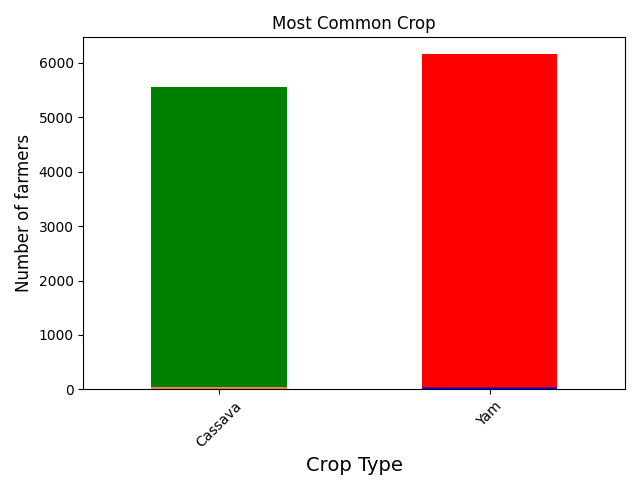
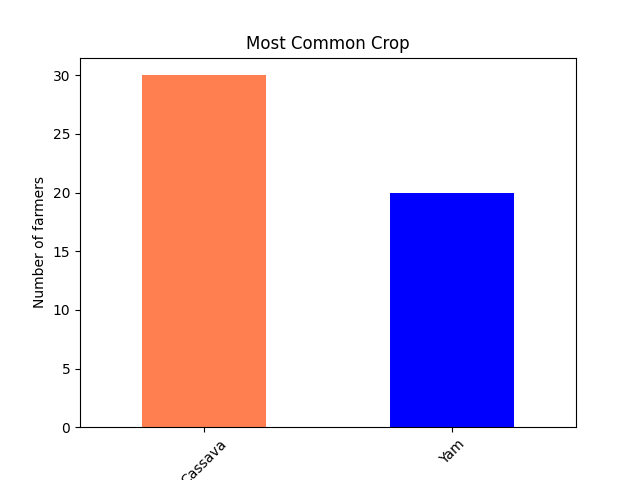
i have added more and made some corrections

diff --git a/jpil_farmers_analysis.py b/jpil_farmers_analysis.py
@@ -8,48 +8,48 @@ df= pd.read_excel("farmers_analysis.xlsx", header=1)
 print(df.columns)
 
 #which village had the highest average crop yield after training?
-avg_crop_yield=df.groupby("Village")["Yield After kg per hec"].mean()
-print(avg_crop_yield)
+#avg_crop_yield=df.groupby("Village")["Yield After kg per hec"].mean()
+#print(avg_crop_yield)
 
 #i will be drawing my average crop yield using bar chart
-avg_crop_yield.plot(kind="bar", color=["green", "red", "blue"])
+#avg_crop_yield.plot(kind="bar", color=["green", "red", "blue"])
 
-plt.title("Average yield after training")
-plt.xlabel("Village", fontsize=12)
-plt.ylabel("Average yield after training", fontsize=12)
-plt.xticks(rotation=45)
-plt.tight_layout()
-plt.savefig("Average_Crop_Yield_After_Training.png")
+#plt.title("Average yield after training")
+#plt.xlabel("Village", fontsize=12)
+#plt.ylabel("Average yield after training", fontsize=12)
+#plt.xticks(rotation=45)
+#plt.tight_layout()
+#plt.savefig("Average_Crop_Yield_After_Training.png")
 #plt.show()
 
 
 
 #which village used most fertilizers on average?
-most_fertilizer_used=df.groupby("Village")["Fertilizer Used kg"].mean()
-print(most_fertilizer_used)
+#most_fertilizer_used=df.groupby("Village")["Fertilizer Used kg"].mean()
+#print(most_fertilizer_used)
 
 #using bar chart
-most_fertilizer_used.plot(kind="bar", color=["coral", "purple", "green"])
-plt.title("Most fertilizer used")
-plt.xlabel("Village", fontsize=12)
-plt.ylabel("Most fertilizer used", fontsize=12)
-plt.xticks(rotation=45)
-plt.tight_layout()
-plt.savefig("Most_fertilizer_used.png")
+#most_fertilizer_used.plot(kind="bar", color=["coral", "purple", "green"])
+#plt.title("Most fertilizer used")
+#plt.xlabel("Village", fontsize=12)
+#plt.ylabel("Most fertilizer used", fontsize=12)
+#plt.xticks(rotation=45)
+#plt.tight_layout()
+#plt.savefig("Most_fertilizer_used.png")
 #plt.show()
 
 
 #which crop type had the highest average farm size-cassava or yam?
-crop_type_avg_farm_size=df.groupby("Crop Type")["Farm Size ha"].mean()
-print(crop_type_avg_farm_size)
+#crop_type_avg_farm_size=df.groupby("Crop Type")["Farm Size ha"].mean()
+#print(crop_type_avg_farm_size)
 
 #crop_type_avg_farm_size.plot(kind="bar", color=["coral", "purple", "green"])
-plt.title("average crop type")
-plt.xlabel("Crop Type", fontsize=12)
-plt.ylabel("Farm Size", fontsize=12)
-plt.xticks(rotation=45)
-plt.tight_layout()
-plt.savefig("crop_type_farm_size.png")
+#plt.title("average crop type")
+#plt.xlabel("Crop Type", fontsize=12)
+#plt.ylabel("Farm Size", fontsize=12)
+#plt.xticks(rotation=45)
+#plt.tight_layout()
+#plt.savefig("crop_type_farm_size.png")
 #plt.show()
 
 
@@ -72,12 +72,12 @@ plt.savefig("crop_type_farm_size.png")
 #print(typical_yield_change)
 
 #typical_yield_change.plot(kind="bar", color=["orange", "green"])
-plt.title("Typical yield change")
-plt.xlabel("Crop type", fontsize=14)
-plt.ylabel("Yield change")
-plt.xticks(rotation=45)
-plt.tight_layout()
-plt.savefig("Typical_yield_change.png")
+#plt.title("Typical yield change")
+#plt.xlabel("Crop type", fontsize=14)
+#plt.ylabel("Yield change")
+#plt.xticks(rotation=45)
+#plt.tight_layout()
+#plt.savefig("Typical_yield_change.png")
 #plt.show()
 
 
@@ -86,12 +86,12 @@ plt.savefig("Typical_yield_change.png")
 #print(amount_of_fertilizer_used)
 
 #amount_of_fertilizer_used.plot(kind="bar", color=["blue","green"])
-plt.title("Amount of fertilizer used")
-plt.xlabel("Fertilizer type")
-plt.ylabel("Fertilizer used")
-plt.xticks(rotation=45)
-plt.tight_layout()
-plt.savefig("Amount_of_fertilizer_used.png")
+#plt.title("Amount of fertilizer used")
+#plt.xlabel("Fertilizer type")
+#plt.ylabel("Fertilizer used")
+#plt.xticks(rotation=45)
+#plt.tight_layout()
+#plt.savefig("Amount_of_fertilizer_used.png")
 #plt.show()
 
 #what is the median farm size for farmers who had pest problems versus those who did not?
@@ -99,26 +99,26 @@ plt.savefig("Amount_of_fertilizer_used.png")
 #print(median_farm_size)
 
 #median_farm_size.plot(kind="bar", color=["orange","blue"])
-plt.title("Median_farm_size", fontsize=12)
-plt.xlabel("Pest incidence", fontsize=14)
-plt.ylabel("Farm size ha")
-plt.xticks(rotation=45)
-plt.savefig("Median_farm_size.png")
-plt.tight_layout()
+#plt.title("Median_farm_size", fontsize=12)
+#plt.xlabel("Pest incidence", fontsize=14)
+#plt.ylabel("Farm size ha")
+#plt.xticks(rotation=45)
+#plt.savefig("Median_farm_size.png")
+#plt.tight_layout()
 #plt.show()
 
 
 #what is the most common crop grown by farmers in this dataset?
-most_common_crop=df["Crop Type"].value_counts()
+#most_common_crop=df["Crop Type"].value_counts()
 #print(most_common_crop)
 
-most_common_crop.plot(kind="bar", color=["coral","blue"])
-plt.title("Most Common Crop")
-plt.xlabel("Crop Type")
-plt.ylabel("Number of farmers")
-plt.xticks(rotation=45)
-plt.savefig("Most_common_crop.png")
-plt.tight_layout()
+#most_common_crop.plot(kind="bar", color=["coral","blue"])
+#plt.title("Most Common Crop")
+#plt.xlabel("Crop Type")
+#plt.ylabel("Number of farmers")
+#plt.xticks(rotation=45)
+#plt.savefig("Most_common_crop.png")
+#plt.tight_layout()
 #plt.show()
 
 
@@ -130,9 +130,9 @@ plt.tight_layout()
 #plt.title("Most Frequent Appearing Village")
 #plt.xlabel("Village")
 #plt.ylabel("Number of farmers")
-plt.xticks(rotation=45)
+#plt.xticks(rotation=45)
 #plt.savefig("Most_frequent_appearing_village.png")
-plt.tight_layout()
+#plt.tight_layout()
 #plt.show()
 
 
@@ -166,7 +166,7 @@ plt.tight_layout()
 #plt.ylabel("Number of farmers")
 #plt.xticks(rotation=45)
 #plt.savefig("Most_common_type_of_land_ownership.png")
-plt.tight_layout()
+#plt.tight_layout()
 #plt.show()
 
 
@@ -178,8 +178,8 @@ plt.tight_layout()
 #plt.title("average yield after training")
 #plt.xlabel("Village", fontsize=14)
 #plt.ylabel("Yield After kg per hec")
-plt.xticks(rotation=45)
-plt.savefig("Average_yield_after_per_village.png")
+#plt.xticks(rotation=45)
+#plt.savefig("Average_yield_after_per_village.png")
 #plt.show()
 
 
@@ -191,8 +191,8 @@ plt.savefig("Average_yield_after_per_village.png")
 #plt.title("Median fertilizer used")
 #plt.xlabel("Fertilizer Type", fontsize=14)
 #plt.ylabel("Fertilizer Used kg", fontsize=14)
-plt.xticks(rotation=45)
-plt.savefig("Median_Fertilizer_Used.png")
+#plt.xticks(rotation=45)
+#plt.savefig("Median_Fertilizer_Used.png")
 #plt.show()
 
 
@@ -207,3 +207,92 @@ plt.ylabel("Farmer ID", fontsize=14)
 plt.xticks(rotation=45)
 plt.savefig("Number_of_farmers_for_each_crop_type.png")
 plt.show()
+
+
+#does using more fertilizer lead to a bigger yield change? scatter plot
+#plt.figure(figsize=(7,7))
+#plt.scatter(
+    #df["Fertilizer Used kg"],
+    #df["Yield Change"],
+    #color=["red"],
+    #edgecolor="black",
+    #alpha=0.6
+#)
+#plt.title("Relationship Between Fertilizer Used and Yield Change", fontsize=14, fontweight="bold")
+#plt.xlabel("Fertilizer Used kg")
+#plt.ylabel("Yield Change")
+#plt.tight_layout()
+#plt.savefig("Fertilizer_vs_Yield_Change_Scatter.png")
+#plt.show()
+
+
+#how does avarage yield after training change as farm size increases? line graph
+#avg_yield_by_size = df.groupby("Farm Size ha")["Yield After kg per hec"].mean()
+#print(avg_yield_by_size)
+#plotting the line graph
+#plt.close('all')
+#plt.figure(figsize=(8, 6))
+#avg_yield_by_size.plot(kind="line", marker="o", color="indigo", linewidth=2, markersize=7)
+
+#plt.title("Average Yield After Training by Farm Size", fontsize=14)
+#plt.xlabel("Farm Size")
+#plt.ylabel("Average Yield After Training")
+#plt.tight_layout()
+#plt.savefig("Average_Yield_by_Farm_Size_Line.png")
+#plt.show()
+
+
+# does using more fertilizer lead to a bigger yield change?scatter plot
+#plt.close('all')
+#plt.figure(figsize=(7,7))
+#plt.scatter(
+    #df["Fertilizer Used kg"],
+    #df["Yield Change"],
+    #color="teal",
+    #alpha=0.7,
+    #edgecolors="black"
+    
+#)
+#plt.title("Relationship Between Fertilizer Used and Yield Change", fontsize=14)
+#plt.xlabel("Fertilizer Used")
+#plt.ylabel("Yield Change")
+#plt.tight_layout()
+#plt.savefig("Fertilizer_vs_Yield_Change_Scatter.png")
+#plt.show()
+
+
+#is there a relationship between farm size and yield change? scatter plot
+#plt.close('all')
+#plt.figure(figsize=(7,7))
+#plt.scatter(
+    #df["Farm Size ha"],
+    #df["Yield Change"],
+    #color="green",
+    #alpha=0.7,
+    #edgecolors="black"
+    
+#)
+#plt.title("Relationship Between Farm Size and Yield Change", fontsize=14)
+#plt.xlabel("Farm Size")
+#plt.ylabel("Yield Change")
+#plt.tight_layout()
+#plt.savefig("Farm_Size_vs_Yield_Change_Scatter.png")
+#plt.show()
+
+
+#do farmers with higher yield before training also end up with higher yield after training?scatter plot
+#plt.close("all")
+#plt.scatter(
+    #df["Yield Before kg per hec"],
+    #df["Yield After kg per hec"],
+    #color="coral",
+    #alpha=0.7,
+    #edgecolors="black"
+    
+#)
+#plt.title("Relationship Between Yield Before And Yield After")
+#plt.xlabel("Yield Before kg per hec")
+#plt.ylabel("Yield After kg per hec")
+#plt.tight_layout()
+#plt.savefig("Yield_Before_vs_Yield_After_Scatter.png")
+#plt.show()
